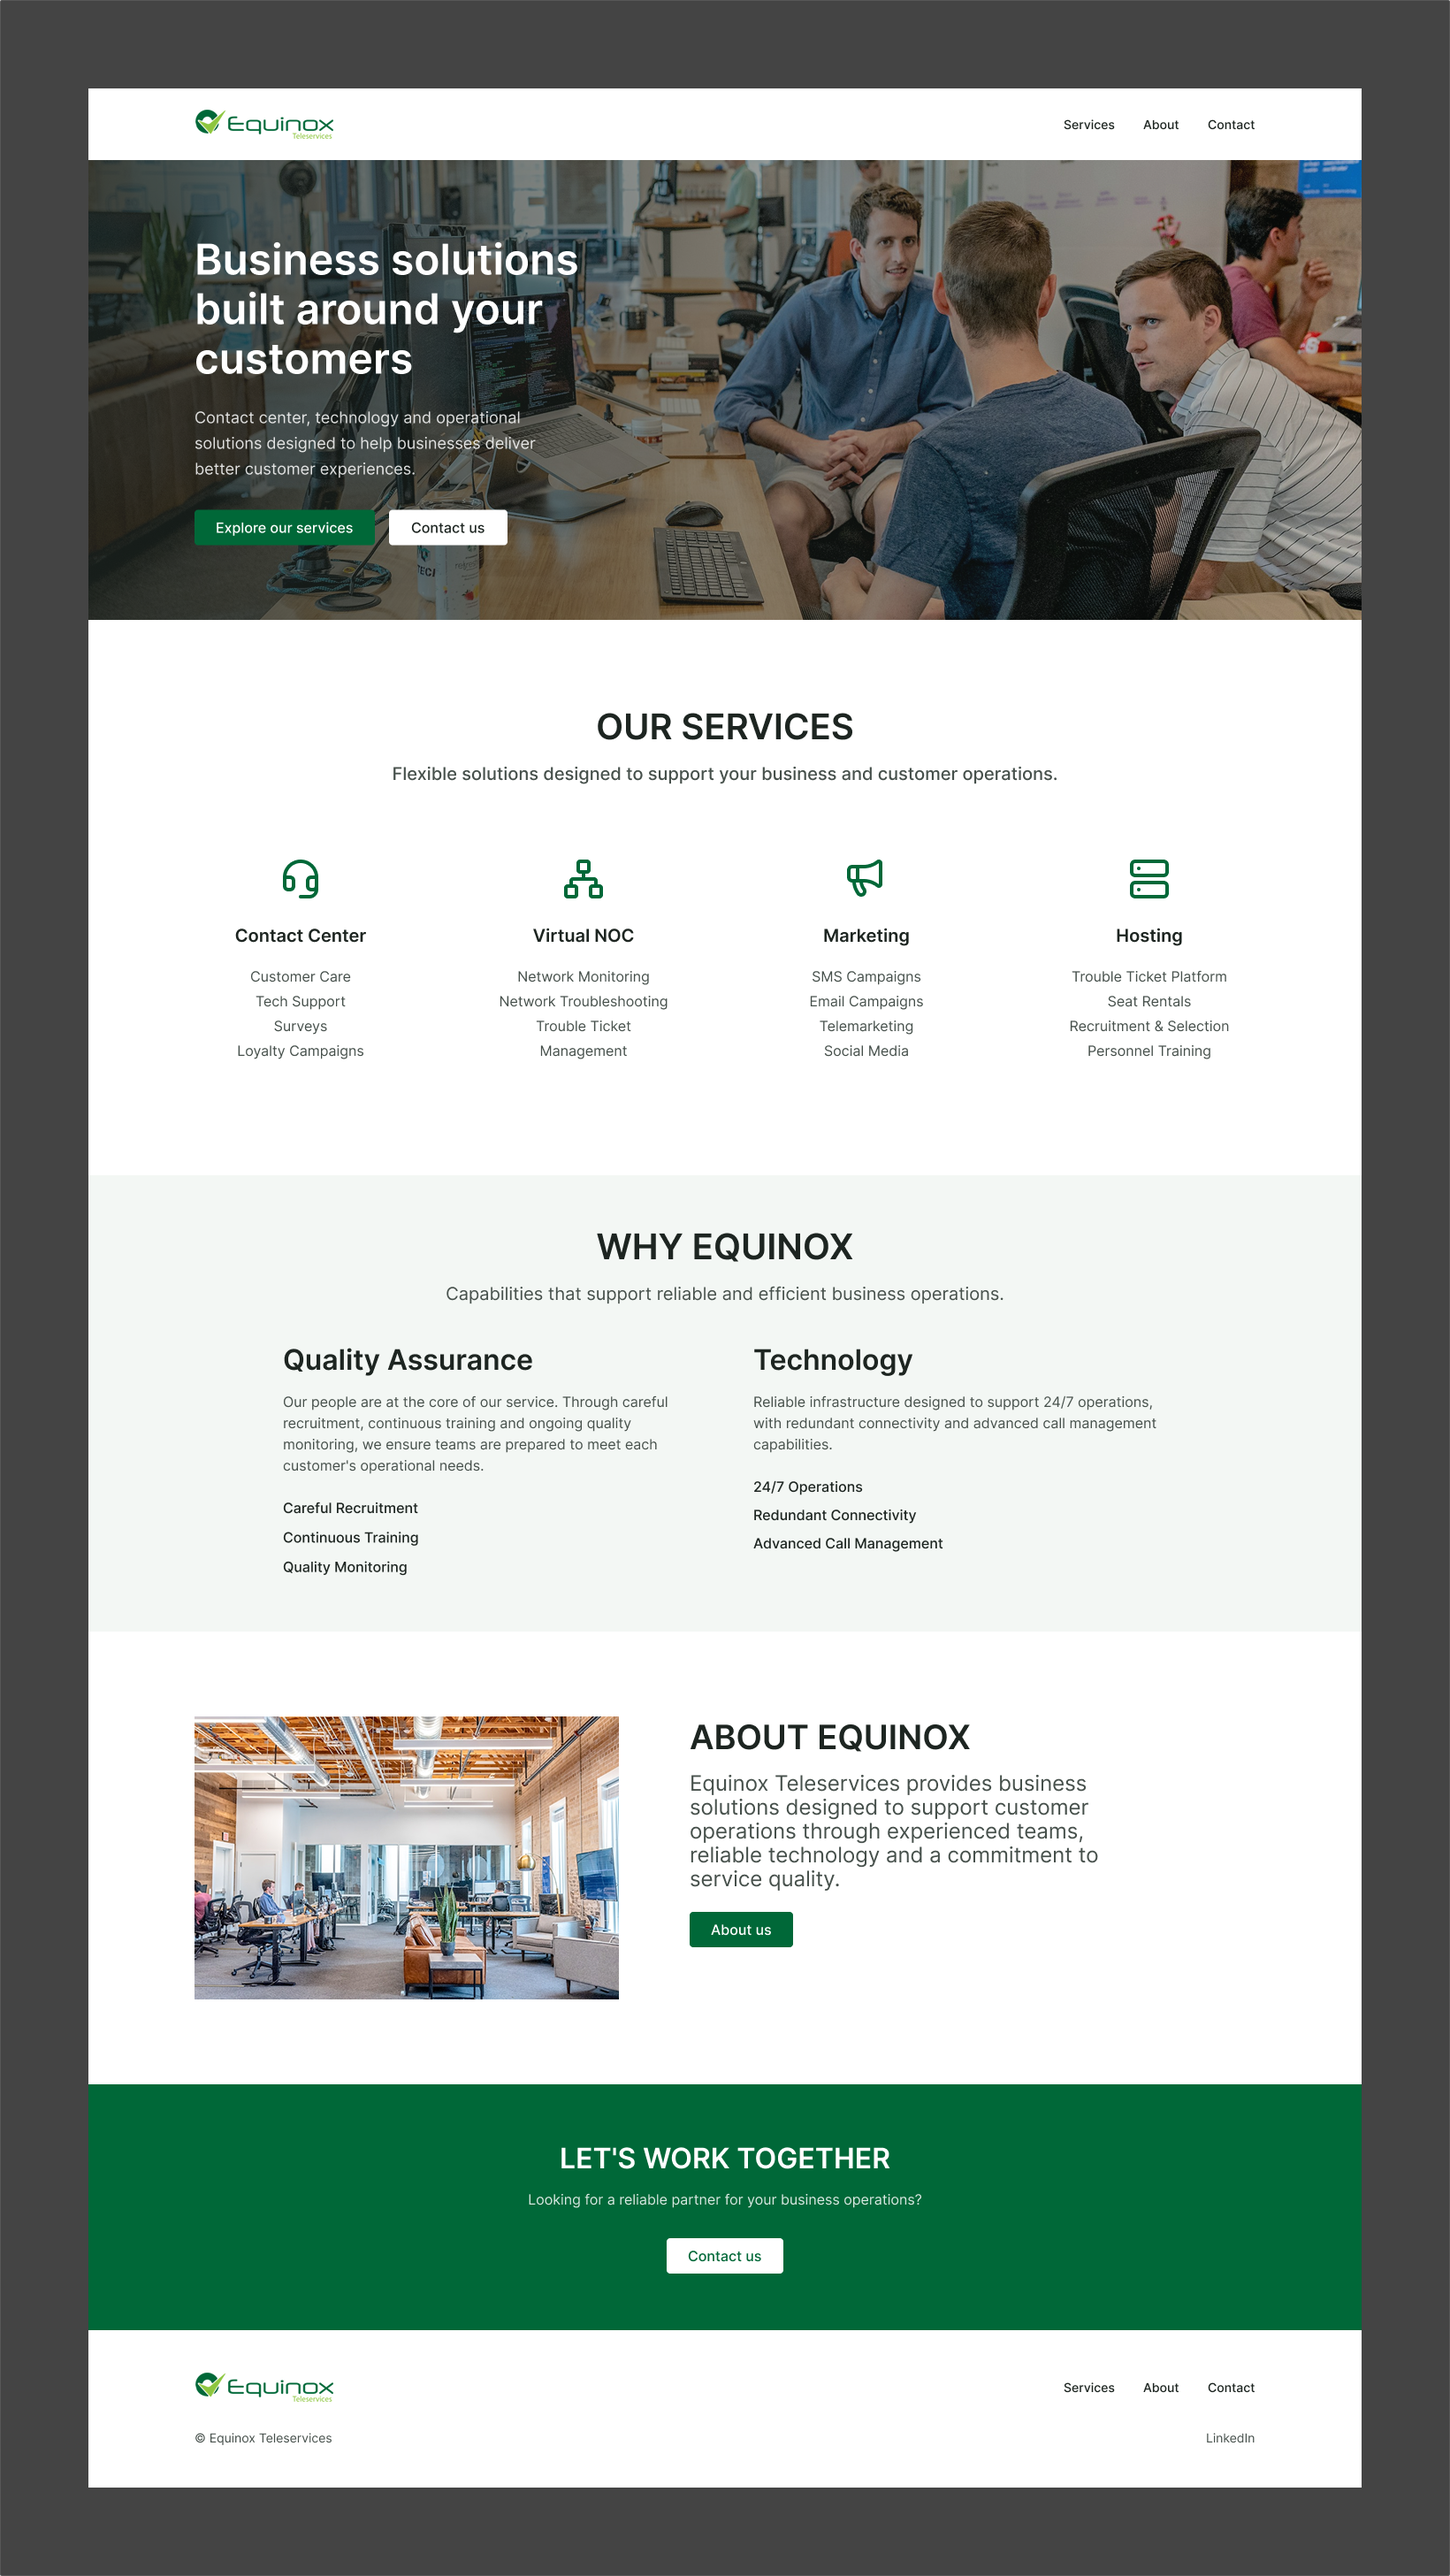
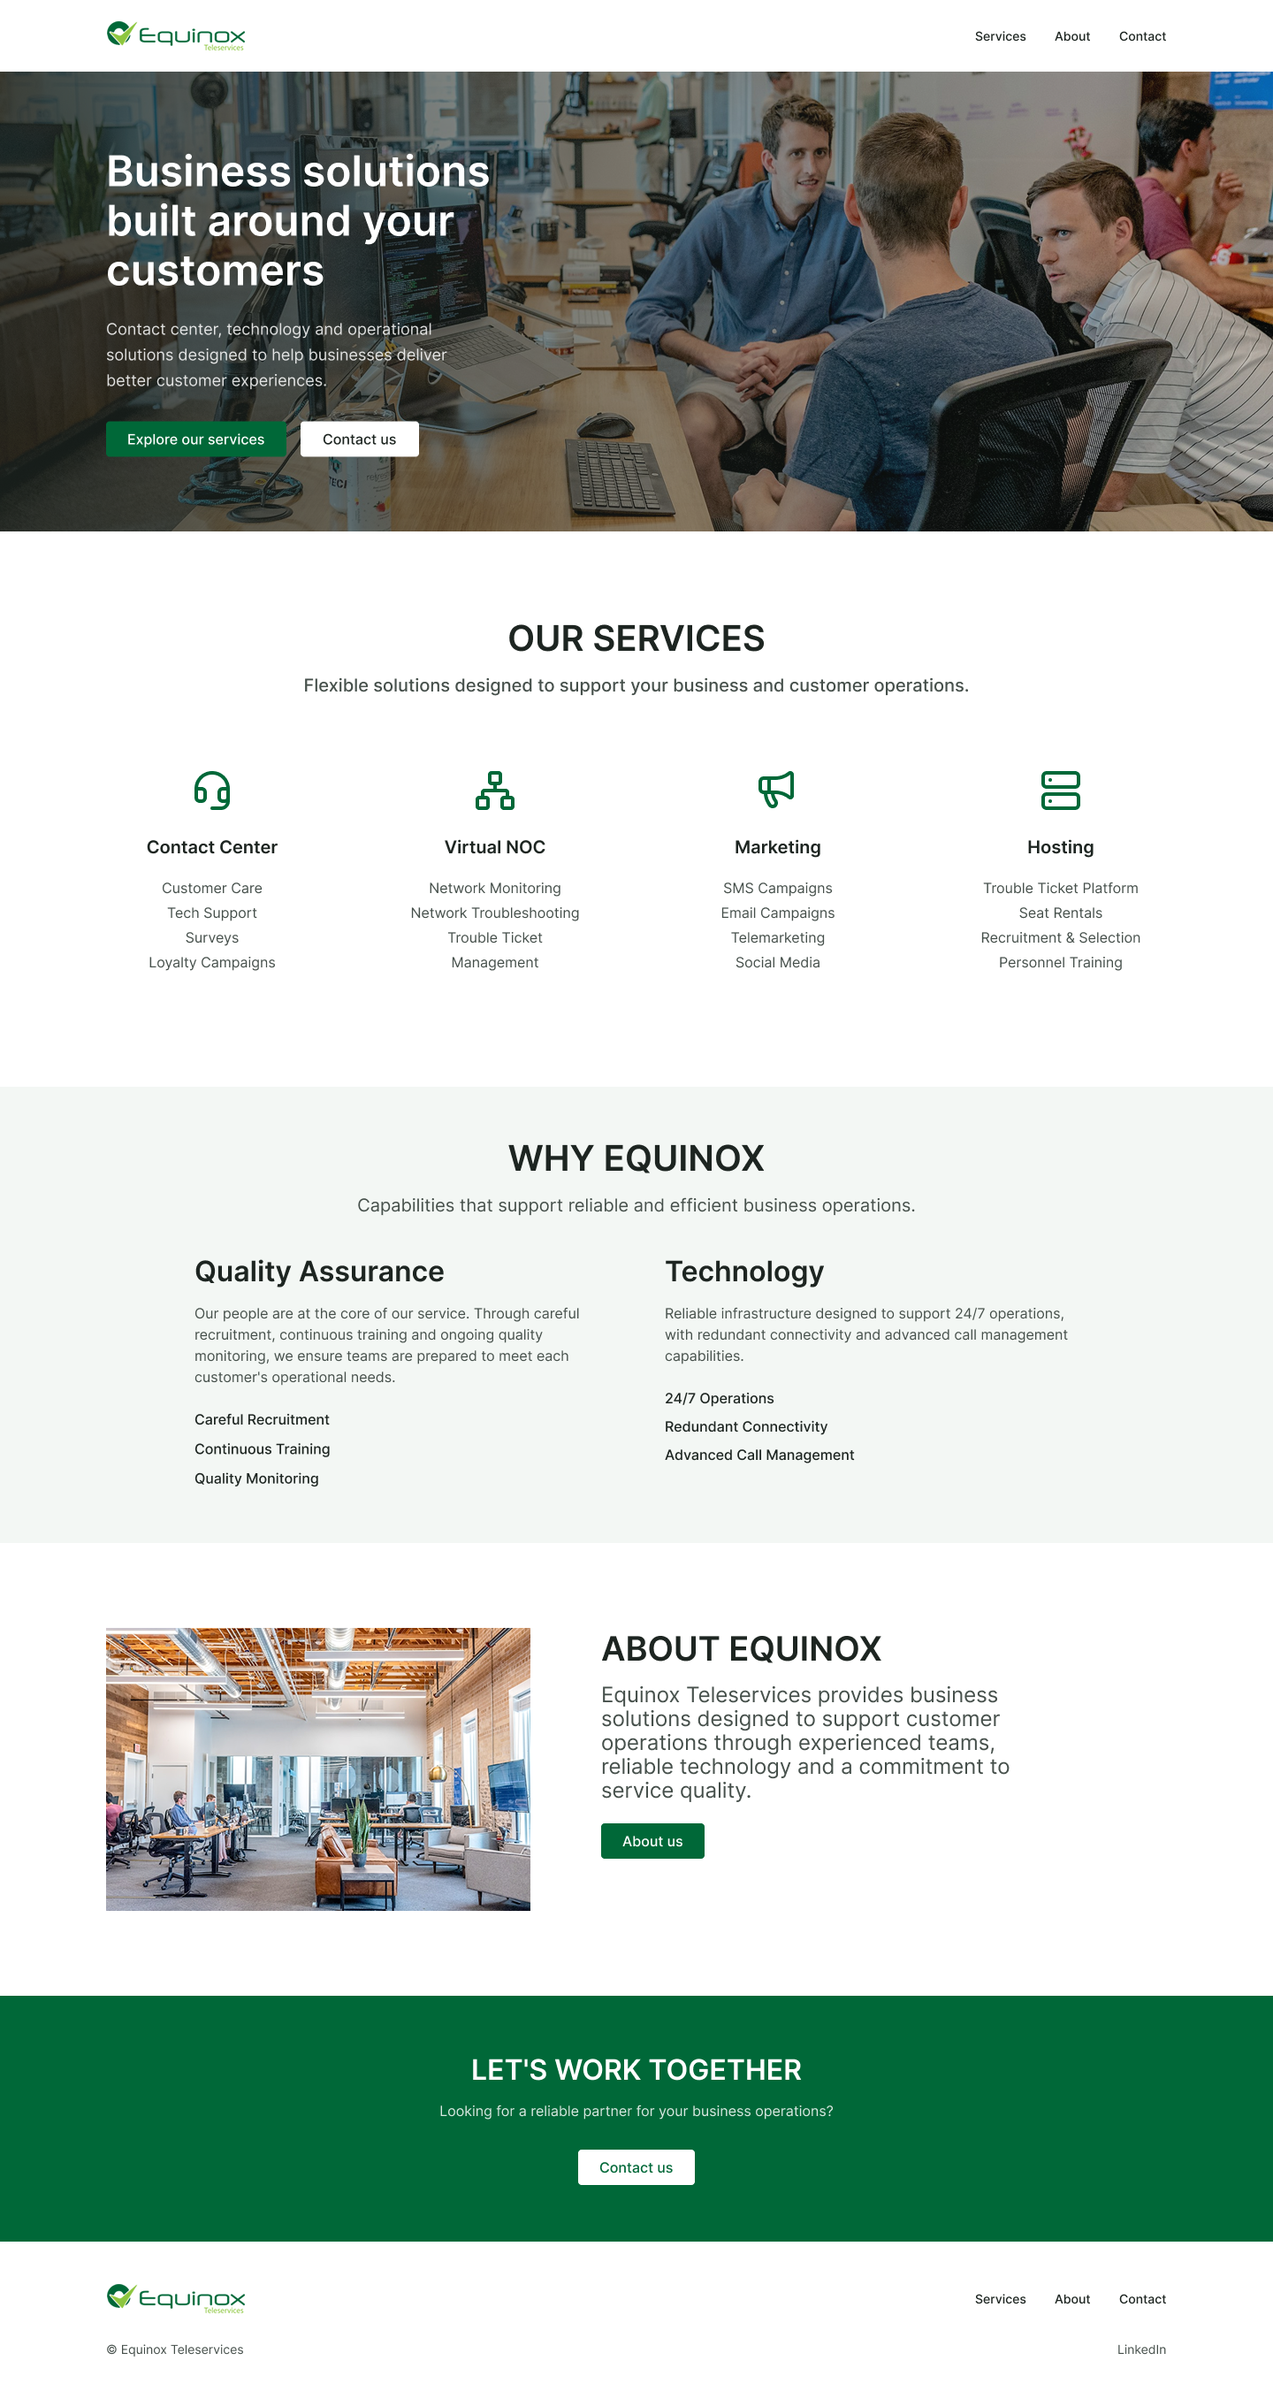
fix: refine Equinox image exports and comparison spacing

diff --git a/src/sections/ProjectDetails/ProjectDetails.module.css b/src/sections/ProjectDetails/ProjectDetails.module.css
@@ -1496,3 +1496,8 @@
 .details[id="equinox"] .caseStage {
   align-items: flex-start;
 }
+/* EQUINOX — SMALLER VERTICAL COMPARISON PADDING */
+.equinoxCaseComparison > .equinoxCaseScreen > a {
+  padding-top: 12px;
+  padding-bottom: 12px;
+}
